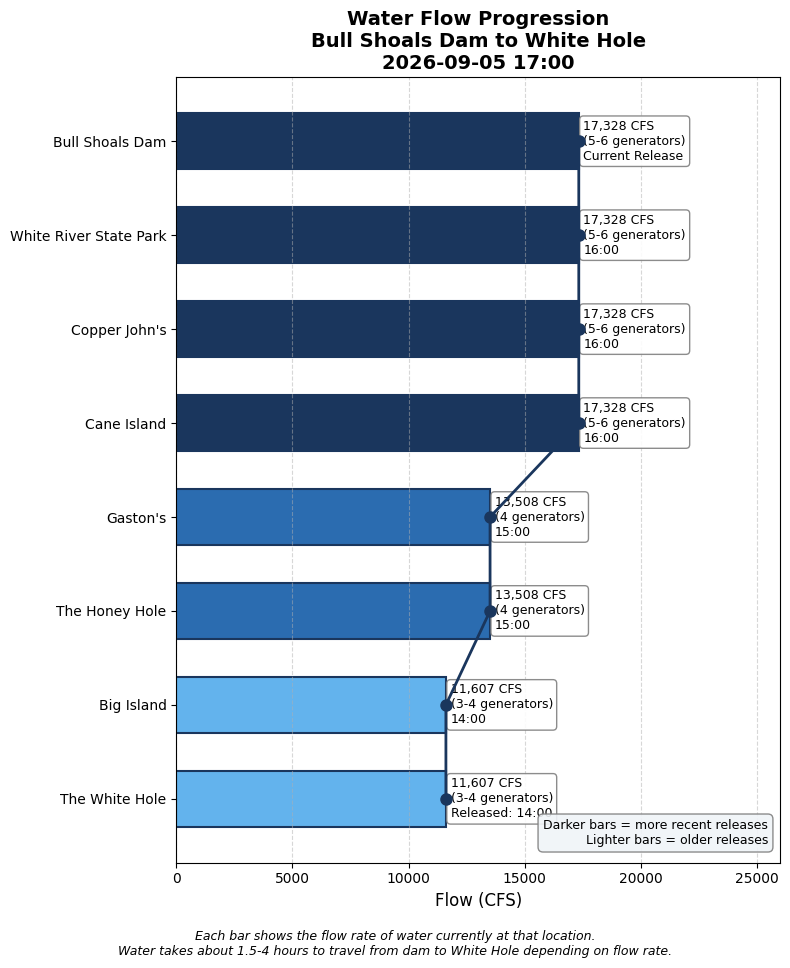
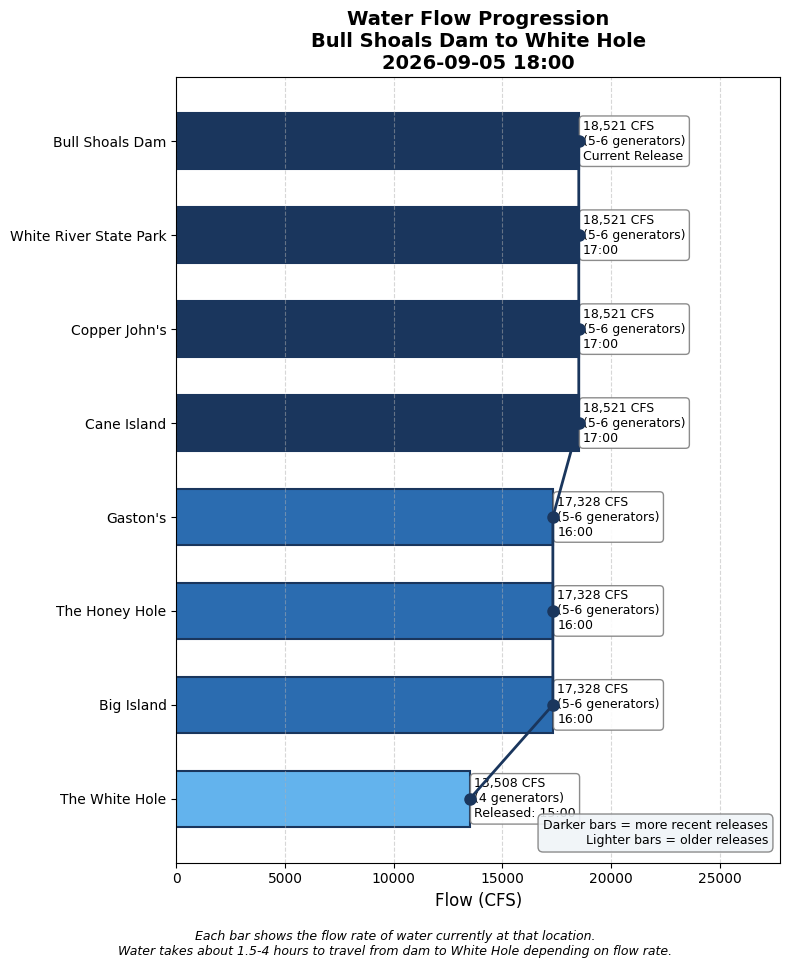
Update water conditions 2026-09-05 19:00

diff --git a/white_hole_conditions.html b/white_hole_conditions.html
@@ -3,7 +3,7 @@
 <head>
     <meta charset="UTF-8">
     <meta name="viewport" content="width=device-width, initial-scale=1.0">
-    <title>White Hole Conditions - 2026-09-05 17:00</title>
+    <title>White Hole Conditions - 2026-09-05 18:00</title>
     <style>
         body {
             font-family: -apple-system, BlinkMacSystemFont, 'Segoe UI', Roboto, sans-serif;
@@ -148,21 +148,21 @@
 </head>
 <body>
     <h1>White Hole Current Conditions</h1>
-    <p class="subtitle">Saturday, September 05, 2026 at 05:00 PM</p>
+    <p class="subtitle">Saturday, September 05, 2026 at 06:00 PM</p>
 
 
     <!-- HEADLINE BANNER -->
     <div class="headline-banner">
         <div class="main-status">🚫 NO WADING — Water too high for safe wading</div>
-        <div class="forecast-status">⏱ RISING WATER arriving in ~18 minutes</div>
+        <div class="forecast-status">⏱ RISING WATER arriving in ~6 minutes</div>
         
     </div>
 
     <!-- CURRENT CONDITIONS -->
     <div class="current-conditions">
         <h3>Current Conditions at White Hole</h3>
-        <div class="flow-display">11,607 CFS</div>
-        <div class="generator-display">Equivalent to 3-4 generators</div>
+        <div class="flow-display">13,508 CFS</div>
+        <div class="generator-display">Equivalent to 4 generators</div>
         <div class="condition-pills">
             <span class="pill wading">No Wading</span>
             <span class="pill boating">High Water</span>
@@ -190,6 +190,14 @@
                 <tr><td colspan="3" style="padding: 8px 10px; font-size: 0.8em; font-weight: bold; color: #6b46c1; text-transform: uppercase; letter-spacing: 0.05em; background-color: #f3e8ff;">Scheduled (SWPA forecast)</td></tr>
                 
                     <tr style="background-color: #faf5ff; ">
+                        <td style="padding: 10px; font-weight: bold;">9 PM</td>
+                        <td style="padding: 10px;">3,626 CFS<br><small style="color: #666;">(1 generator: 3376 generation + 250 min flow)</small></td>
+                        <td style="padding: 10px;">~12:13 AM
+                            <span style="display: inline-block; margin-left: 6px; padding: 2px 8px; border-radius: 12px; font-size: 0.8em; background-color: #fef3c7; color: #92400e;">Still Wadable</span>
+                        </td>
+                    </tr>
+                
+                    <tr style="background-color: #faf5ff; ">
                         <td style="padding: 10px; font-weight: bold;">8 PM</td>
                         <td style="padding: 10px;">11,053 CFS<br><small style="color: #666;">(3-4 generators: 10803 generation + 250 min flow)</small></td>
                         <td style="padding: 10px;">~10:28 PM
@@ -213,39 +221,31 @@
                         </td>
                     </tr>
                 
-                    <tr style="background-color: #faf5ff; ">
-                        <td style="padding: 10px; font-weight: bold;">5 PM</td>
-                        <td style="padding: 10px;">19,155 CFS<br><small style="color: #666;">(5-6 generators: 18905 generation + 250 min flow)</small></td>
-                        <td style="padding: 10px;">~6:59 PM
-                            <span style="display: inline-block; margin-left: 6px; padding: 2px 8px; border-radius: 12px; font-size: 0.8em; background-color: #fee2e2; color: #991b1b;">No Wading</span>
-                        </td>
-                    </tr>
-                
             
                     
                 <tr><td colspan="3" style="padding: 8px 10px; font-size: 0.8em; font-weight: bold; color: #2b6cb0; text-transform: uppercase; letter-spacing: 0.05em; background-color: #ebf8ff;">Actual (dam readings)</td></tr>
                 
                     <tr style="background-color: #ebf8ff;">
-                        <td style="padding: 10px; font-weight: bold;">4:00 PM</td>
-                        <td style="padding: 10px;">17,328 CFS<br><small style="color: #666;">(5-6 generators)</small></td>
-                        <td style="padding: 10px;"><span style="color: #2b6cb0;">→ Arrives ~6:06 PM (in 66 min)</span></td>
+                        <td style="padding: 10px; font-weight: bold;">5:00 PM</td>
+                        <td style="padding: 10px;">18,521 CFS<br><small style="color: #666;">(5-6 generators)</small></td>
+                        <td style="padding: 10px;"><span style="color: #2b6cb0;">→ Arrives ~7:02 PM (in 62 min)</span></td>
                     </tr>
                 
                     <tr style="background-color: #ebf8ff;">
-                        <td style="padding: 10px; font-weight: bold;">3:00 PM</td>
-                        <td style="padding: 10px;">13,508 CFS<br><small style="color: #666;">(4 generators)</small></td>
-                        <td style="padding: 10px;"><span style="color: #2b6cb0;">→ Arrives ~5:18 PM (in 18 min)</span></td>
+                        <td style="padding: 10px; font-weight: bold;">4:00 PM</td>
+                        <td style="padding: 10px;">17,328 CFS<br><small style="color: #666;">(5-6 generators)</small></td>
+                        <td style="padding: 10px;"><span style="color: #2b6cb0;">→ Arrives ~6:06 PM (in 6 min)</span></td>
                     </tr>
                 
                     <tr style="background-color: #e6fffa;">
-                        <td style="padding: 10px; font-weight: bold;">2:00 PM</td>
-                        <td style="padding: 10px;">11,607 CFS<br><small style="color: #666;">(3-4 generators)</small></td>
+                        <td style="padding: 10px; font-weight: bold;">3:00 PM</td>
+                        <td style="padding: 10px;">13,508 CFS<br><small style="color: #666;">(4 generators)</small></td>
                         <td style="padding: 10px;"><span style="color: #319795; font-weight: bold;">← AT WHITE HOLE NOW</span></td>
                     </tr>
                 
                     <tr style="">
-                        <td style="padding: 10px; font-weight: bold;">11:00 AM</td>
-                        <td style="padding: 10px;">742 CFS<br><small style="color: #666;">(0-1 generators)</small></td>
+                        <td style="padding: 10px; font-weight: bold;">12:00 PM</td>
+                        <td style="padding: 10px;">4,831 CFS<br><small style="color: #666;">(1-2 generators)</small></td>
                         <td style="padding: 10px;"><span style="color: #718096;">passed</span></td>
                     </tr>
                 
@@ -276,9 +276,9 @@
         </summary>
         <div style="padding: 15px;">
             <ul>
-                <li>Latest dam reading: 17,328 CFS at 2026-09-05 16:00</li>
-                <li>Travel time to White Hole: 2.4 hours at current flow</li>
-                <li>White Hole conditions based on dam reading from: 2026-09-05 14:00</li>
+                <li>Latest dam reading: 18,521 CFS at 2026-09-05 17:00</li>
+                <li>Travel time to White Hole: 2.3 hours at current flow</li>
+                <li>White Hole conditions based on dam reading from: 2026-09-05 15:00</li>
             </ul>
         </div>
     </details>
@@ -300,6 +300,13 @@
                     </thead>
                     <tbody>
                         
+                <tr style="border-bottom: 1px solid #eee;">
+                    <td style="padding: 8px;">2026-09-05 17:00</td>
+                    <td style="padding: 8px; text-align: right;">18521</td>
+                    <td style="padding: 8px; text-align: right;">5.6</td>
+                    <td style="padding: 8px; text-align: right;">2.0</td>
+                </tr>
+                
                 <tr style="border-bottom: 1px solid #eee;">
                     <td style="padding: 8px;">2026-09-05 16:00</td>
                     <td style="padding: 8px; text-align: right;">17328</td>
@@ -370,13 +377,6 @@
                     <td style="padding: 8px; text-align: right;">3.7</td>
                 </tr>
                 
-                <tr style="border-bottom: 1px solid #eee;">
-                    <td style="padding: 8px;">2026-09-05 06:00</td>
-                    <td style="padding: 8px; text-align: right;">708</td>
-                    <td style="padding: 8px; text-align: right;">0.2</td>
-                    <td style="padding: 8px; text-align: right;">3.7</td>
-                </tr>
-                
                     </tbody>
                 </table>
             </div>
@@ -388,12 +388,12 @@
     <details class="timeline-box">
         <summary style="cursor: default; list-style: none;">
             <h3 style="display: inline;">🎣 Fishing Report — Gaston's to Cranor's Island</h3>
-            <span style="color: #666; margin-left: 8px;">3–5 units (10,000–16,500 CFS) · 11,607 CFS</span>
+            <span style="color: #666; margin-left: 8px;">3–5 units (10,000–16,500 CFS) · 13,508 CFS</span>
         </summary>
         <p style="color: #666; margin: 12px 0 4px;">Fall (September–October): pre-spawn browns</p>
         
         <p style="font-size: 1.1em; margin: 10px 0;"><strong>3–5 units (10,000–16,500 CFS)</strong>
-            — 11,607 CFS at White Hole (3-4 generators)</p>
+            — 13,508 CFS at White Hole (4 generators)</p>
         <p style="color: #444;">Boat water — and the big-brown window. Drag chain, not anchor. Bank ties need a real eddy. No wading anywhere.</p>
         <p style="margin: 6px 0; font-size: 0.9em;"><a href="https://www.google.com/maps?q=36.347597191038865,-92.55540040484095" target="_blank" style="color: #2b6cb0;">📍 Gaston's</a> · <a href="https://www.google.com/maps?q=36.329897607316106,-92.53355649411128" target="_blank" style="color: #2b6cb0;">📍 White Hole</a> · <a href="https://www.google.com/maps?q=36.333492497534266,-92.56191314472997" target="_blank" style="color: #2b6cb0;">📍 Cranor's Island</a></p>
         <h4 style="color: #2c3e50; margin: 18px 0 6px;">Where to go</h4>
@@ -403,7 +403,7 @@
         <ul style="margin: 0 0 0 5px;"><li>Do NOT anchor in current — this is how people drown on this river. Drag chain (legal on the White) or tie high in a genuine eddy</li><li>Bow upstream, slip knot, knife in reach, re-tend the rope constantly</li><li>Drifting the soft bank lane covers the minnow/swimbait water a tied boat can't reach — driver on the tiller, everyone else fishes</li><li>Debris starts moving at these flows; keep watch upstream</li></ul>
 
         <h4 style="color: #2c3e50; margin: 18px 0 6px;">Timing</h4>
-        <ul style="margin: 0 0 0 5px;"><li>Fish the generation change: the leading edge of a rise and the first hour of falling water beat any time on the clock</li><li>SCHEDULED RISE to 19,155 CFS (5-6 generators) at 5 PM: Gaston's ~6:09 PM · White Hole ~6:59 PM · Cranor's Island ~7:42 PM. Downstream water stays low longer — be below the front and fish it up</li></ul>
+        <ul style="margin: 0 0 0 5px;"><li>Fish the generation change: the leading edge of a rise and the first hour of falling water beat any time on the clock</li><li>RISE EN ROUTE: 17,328 CFS (5-6 generators) reaches White Hole ~6:06 PM — cast worms near the banks in the first hour, then fish the Heavy generation (16,500+ CFS) program</li><li>SCHEDULED RISE to 19,155 CFS (5-6 generators) at 6 PM: Gaston's ~7:09 PM · White Hole ~7:59 PM · Cranor's Island ~8:42 PM. Downstream water stays low longer — be below the front and fish it up</li></ul>
 
         <div style="background-color: #f0f7f4; border-radius: 8px; padding: 15px; margin-top: 18px;">
             <h4 style="color: #2c3e50; margin: 0 0 8px;">🎣 Spin Fishing</h4>
@@ -495,7 +495,7 @@
     </details>
 
     <div class="timestamp">
-        Data retrieved and processed on 2026-09-05 17:00:09 (Central time)<br>
+        Data retrieved and processed on 2026-09-05 18:00:08 (Central time)<br>
         Travel times are observational estimates (per <a href="https://www.hisplaceresort.net/white-river-info" target="_blank" style="color: #718096;">His Place Resort</a>) &mdash; always judge wading safety on-site.<br>
         &copy; 2026 Brian Carroll. All rights reserved.
     </div>
